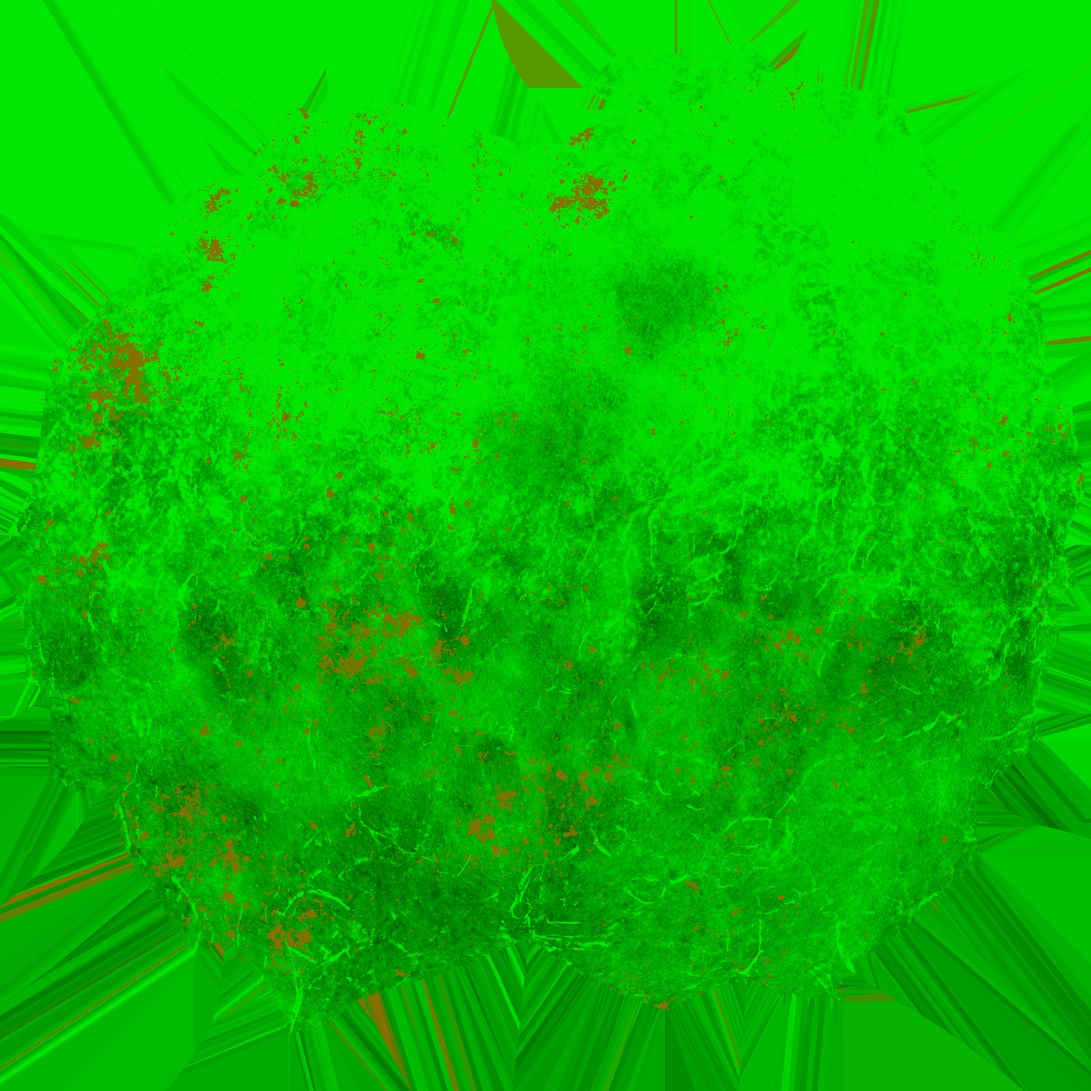
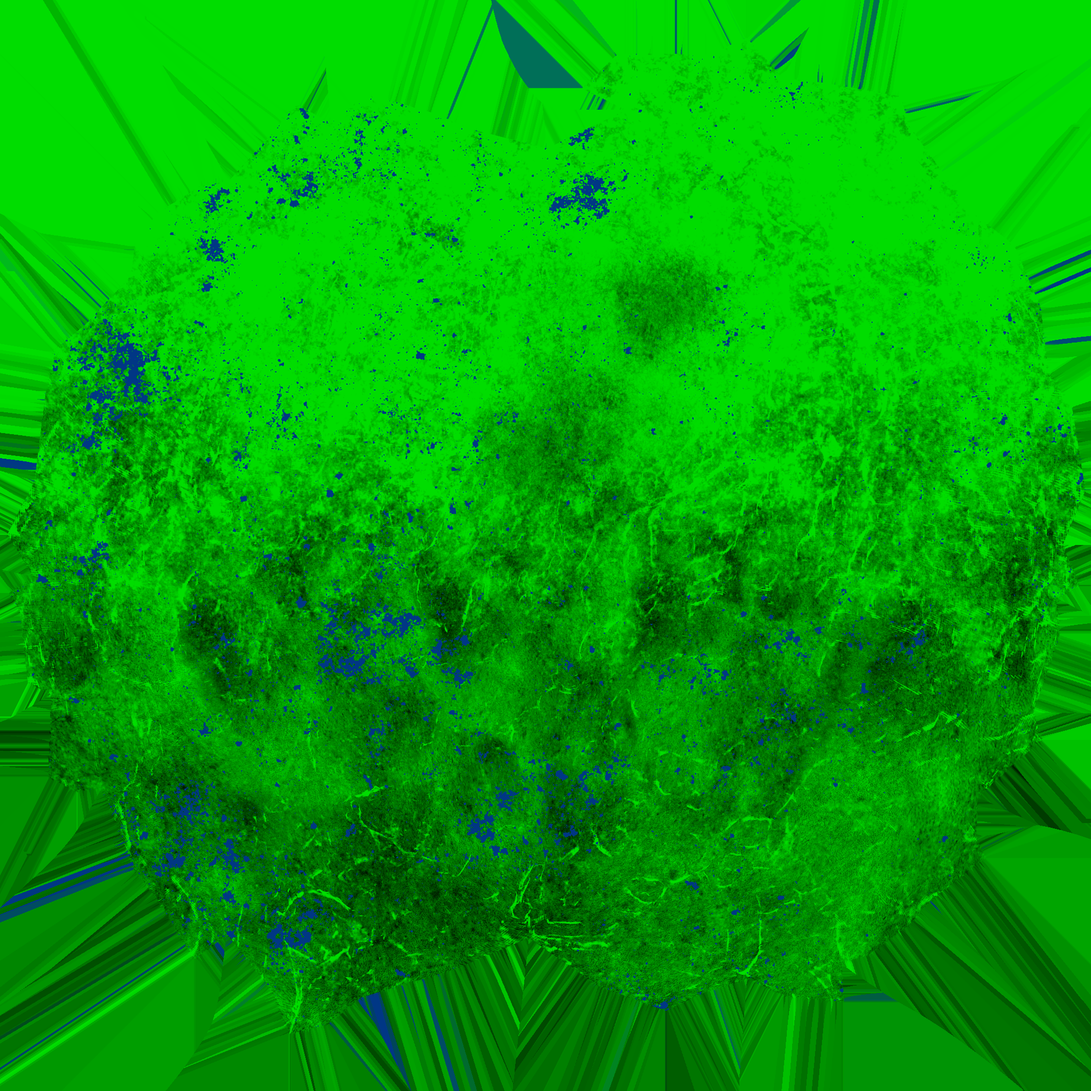
metal roughness updates

diff --git a/examples/ubq_PyreneesBlenderMetal.html b/examples/ubq_PyreneesBlenderMetal.html
@@ -104,7 +104,7 @@
 							//Three's texture loader flips y axis by default. Be sure to set .flipY to false
 							texture.flipY = false;
 							child.material.lightMap = texture;
-							child.material.lightMapIntensity = .1;
+							child.material.lightMapIntensity = 1;
 
 							//Apply environment map
 							child.material.envMap = textureEquirec;
